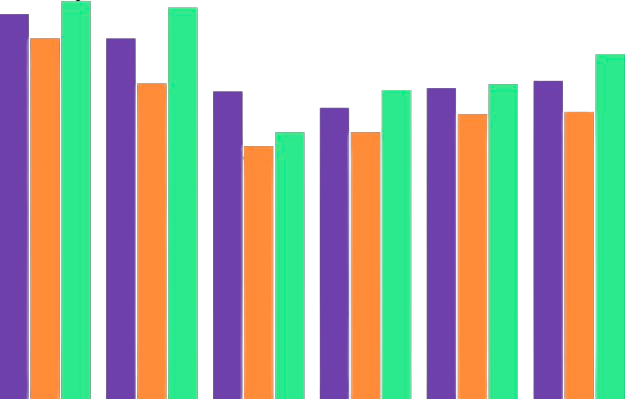
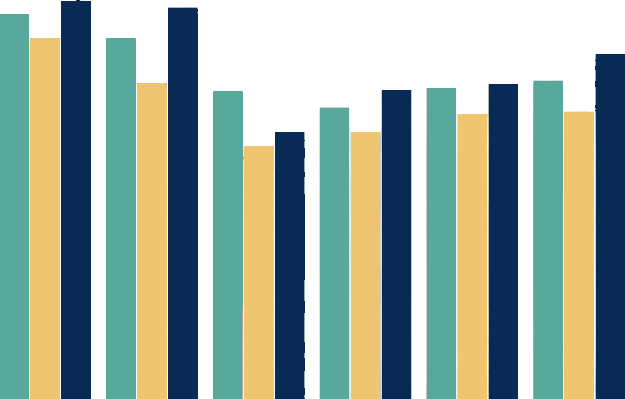
Change colour palette of the sex groups
- Also raised the height of the superscripts in the footer

diff --git a/src/ui/graphComponent.js b/src/ui/graphComponent.js
@@ -34,6 +34,13 @@ import {
 import { displayDataTable } from "./dataTableComponent.js";
 import { getAgeSexDisplay } from "../util/data.js";
 
+
+const SexGroupColours = {
+  [sexGroups.B]: "var(--bothSexColour)",
+  [sexGroups.F]: "var(--femaleColour)",
+  [sexGroups.M]: "var(--maleColour)"
+}
+
 /**
  *
  * Display a graph based on the selected type
@@ -58,15 +65,14 @@ export function displayGraph(data) {
     foodGroupColorMapping[allFoodGroups] = {label: allFoodGroups, color: "#A1A1A1" };
   }
 
-  const sexGroupColorMapping = generateColorMapping(
-    Object.keys(sexGroups).reduce((acc, sex) => {
+  const sexGroupColorMapping = Object.keys(sexGroups).reduce((acc, sex) => {
       acc[sex] = {
         label: getTranslations().graphs.legend.sexGroups[sex],
-        color: null,
+        color: SexGroupColours[sex],
       };
       return acc;
-    }, {}),
-  );
+    }, {});
+
   const sexGroupTextMapping = Object.keys(sexGroups).reduce((acc, sex) => {
     acc[sex] = {
       label: getTranslations().graphs.legend.sexGroups[sex],

diff --git a/styles.css b/styles.css
@@ -37,10 +37,9 @@
   --warningTooltipBackground: #ffe680;
   --warningTooltipBorderColour: #cc9900;
   
-  --detected: #C5705D;
-  --notDetected: #41B3A2;
-  --notTested: #cc9900;
-  --unknown: #cccccc;
+  --bothSexColour: #59a89c;
+  --femaleColour: #f0c571;
+  --maleColour: #082a54;
 
   --smBorderRadius: 5px;
   --borderRadius: 10px;

diff --git a/src/const.js b/src/const.js
@@ -735,7 +735,7 @@ export const VisualDims = {
     footerWidth: 1200
   },
 
-  superScriptYOffset: -5,
+  superScriptYOffset: -8,
   smallScriptFontSize: 9
 }
 
